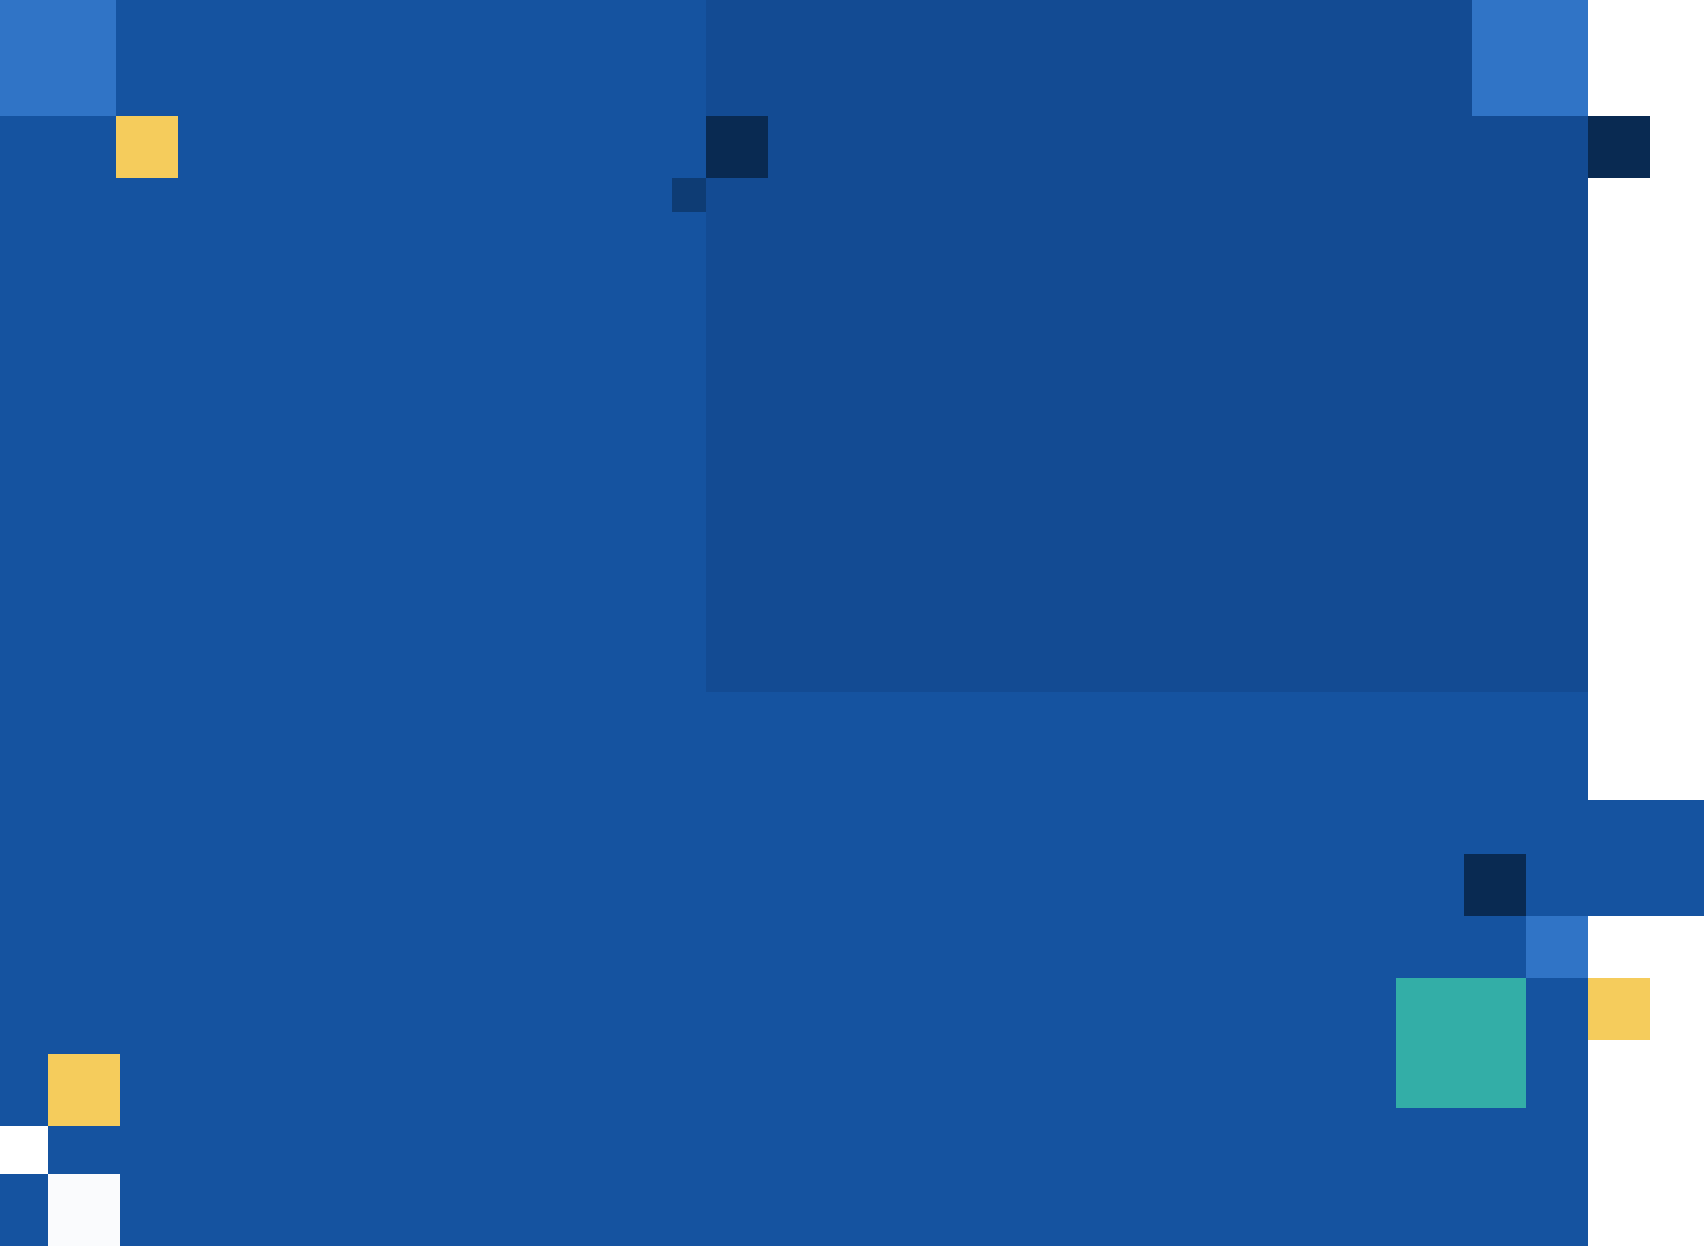
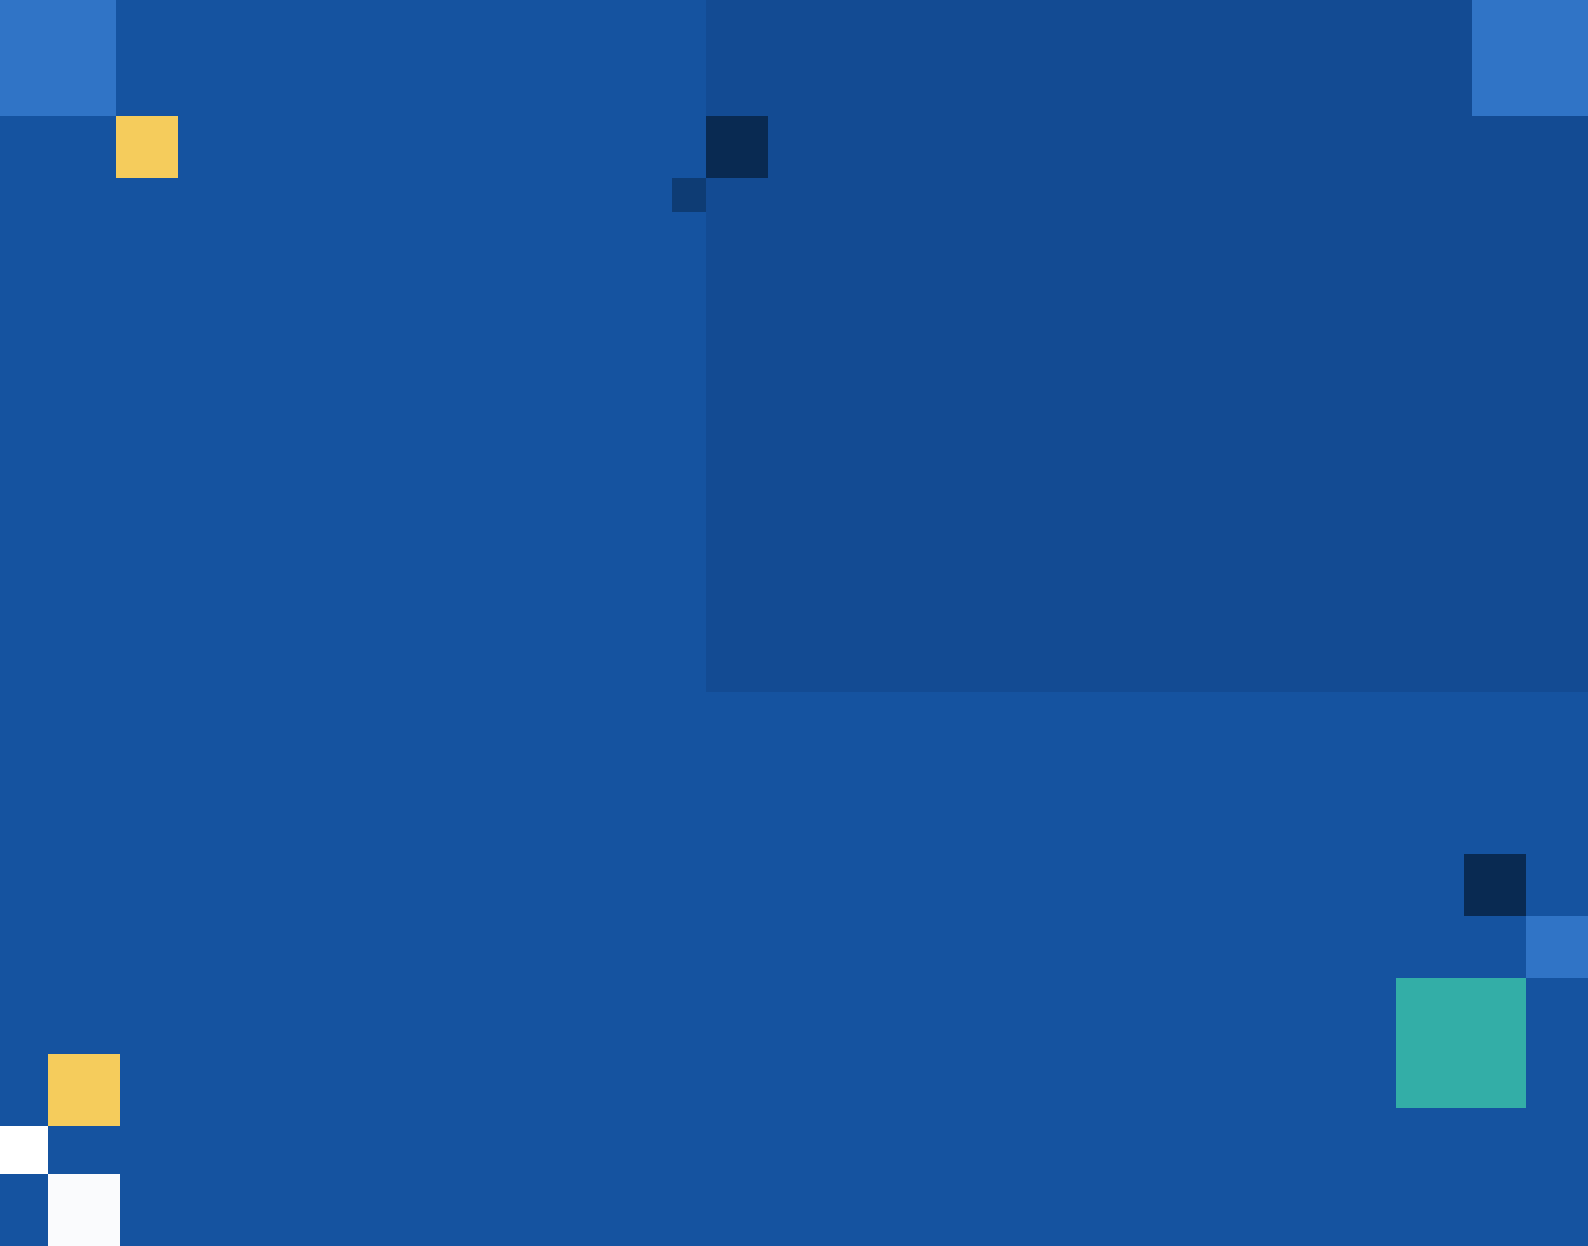
update position hero di page table dan page paragraph

diff --git a/assets/css/style.css b/assets/css/style.css
@@ -1,4 +1,24 @@
 @media only screen and (max-width: 900px) {
+  table.dataTable > thead .sorting::after,
+  table.dataTable > thead .sorting_asc::after {
+    background-image: url(../img/icons/arrow-down-bottom.svg);
+    background-size: 24px;
+    content: "";
+    background-position: bottom;
+    background-repeat: no-repeat;
+    opacity: 1;
+    margin-right: 0;
+  }
+  table.dataTable > thead .sorting::before,
+  table.dataTable > thead .sorting_asc::before {
+    background-image: url(../img/icons/arrow-down-top.svg);
+    background-size: 24px;
+    content: "";
+    background-position: top;
+    background-repeat: no-repeat;
+    opacity: 1;
+    margin-right: 0;
+  }
   .navbar .navbar-collapse {
     background-color: white;
     position: absolute;
@@ -52,12 +72,28 @@
 
   .navbar-collapse .navbar_profile {
     position: absolute;
-    top: 85%;
+    top: 80%;
     left: 20px;
   }
   .member_content .card .card-header .dropdown__right {
     display: block;
     justify-content: center;
+  }
+
+  .bottom {
+    display: flex;
+    flex-direction: row-reverse;
+    margin-top: 20px;
+    justify-content: space-between;
+    margin-left: 10px;
+    margin-right: 10px;
+  }
+
+  .img__left {
+    display: none;
+  }
+  .img__right {
+    display: none;
   }
 
   .select-custom-arrow {
@@ -68,6 +104,14 @@
     -moz-appearance: none;
     height: 48px;
     width: 100%;
+  }
+
+  .dataTables_length {
+    margin-right: 0;
+  }
+
+  div.dataTables_wrapper div.dataTables_paginate {
+    margin-left: 0;
   }
 
   .mb-xs-ex-select {
@@ -82,8 +126,8 @@
   }
 
   .select-custom-arrow {
-    background-position: calc(100% - 12px) 14px;
-    background-size: 9%;
+    background-position: calc(100% - 12px) 11px;
+    background-size: 24px;
   }
 
   .text-total-count-table {
@@ -161,6 +205,26 @@
   }
 }
 @media only screen and (min-width: 900px) {
+  table.dataTable > thead .sorting::after,
+  table.dataTable > thead .sorting_asc::after {
+    background-image: url(../img/icons/arrow-down-bottom.svg);
+    background-size: 24px;
+    content: "";
+    background-position: bottom;
+    background-repeat: no-repeat;
+    opacity: 1;
+    margin-right: 16px;
+  }
+  table.dataTable > thead .sorting::before,
+  table.dataTable > thead .sorting_asc::before {
+    background-image: url(../img/icons/arrow-down-top.svg);
+    background-size: 24px;
+    content: "";
+    background-position: top;
+    background-repeat: no-repeat;
+    opacity: 1;
+    margin-right: 16px;
+  }
   .member_content .card .card-header {
     padding: 32px;
   }
@@ -191,23 +255,44 @@
     font-size: 18px;
     margin-top: 0;
   }
+
+  .dataTables_length {
+    margin-right: 20px;
+  }
+
+  div.dataTables_wrapper div.dataTables_paginate {
+    margin-left: 20px;
+  }
+
+  .bottom {
+    margin-top: 20px;
+    display: flex;
+    justify-content: space-between;
+    flex-direction: row-reverse !important;
+    padding-right: 15px;
+    padding-left: 15px;
+  }
+
+  .img__left {
+    width: 792px;
+    height: 624px;
+    position: absolute;
+    left: -150px;
+  }
+  .img__right {
+    width: 648px;
+    height: 623px;
+    position: absolute;
+    left: 0;
+  }
 }
 
-table.dataTable > thead .sorting::after, table.dataTable > thead .sorting_asc::after{
-  background-image: url(../img/icons/arrow-down-bottom.svg);
-  background-size: 24px;
-  content: "";
-  background-position: bottom;
-  background-repeat: no-repeat;
-  opacity: 1;
-}
-table.dataTable > thead .sorting::before, table.dataTable > thead .sorting_asc::before{
-  background-image: url(../img/icons/arrow-down-top.svg);
-  background-size: 24px;
-  content: "";
-  background-position: top;
-  background-repeat: no-repeat;
-  opacity: 1;
+@media only screen and (min-width: 992px) {
+  .col-lg-7 {
+    -ms-flex: 0 0 58.333333%;
+    flex: 0 0 58.333333%;
+    max-width: 56.333333%;
+  }
 }
 
 .btn-green {
@@ -453,7 +538,7 @@ table.dataTable > thead .sorting::before, table.dataTable > thead .sorting_asc::
 
 .hero {
   height: 653px;
-  background-image: url("../img/hero_bg.png");
+  /* background-image: url("../img/hero_bg.png"); */
   background-size: 100% 100%;
   position: relative;
   overflow: hidden;
@@ -853,15 +938,6 @@ table.dataTable > thead .sorting::before, table.dataTable > thead .sorting_asc::
   box-shadow: 0 14px 40px rgba(24, 169, 143, 0.3);
 }
 
-.bottom {
-  margin-top: 20px;
-  display: flex;
-  justify-content: space-between;
-  flex-direction: row-reverse !important;
-  padding-right: 15px;
-  padding-left: 15px;
-}
-
 .bottom .pagination .paginate_button {
   margin-right: 10px;
 }
@@ -887,7 +963,7 @@ table.dataTable > thead .sorting::before, table.dataTable > thead .sorting_asc::
 .backup-public-template {
   height: 623px;
   margin-top: 107px;
-  background-image: url("../img/Hero_BG.png");
+  /* background-image: url("../img/Hero_BG.png"); */
   background-color: #1553a0;
   background-repeat: no-repeat;
 }
@@ -1144,14 +1220,15 @@ tbody {
 
 .has-search .form-control::placeholder {
   color: #a1b0c8;
+  padding-left: 10px;
 }
 
 .has-search .form-control-feedback {
   position: absolute;
   z-index: 2;
   display: block;
-  width: 2.375rem;
-  height: 2.375rem;
+  width: 50px;
+  height: 48px;
   line-height: 3rem;
   text-align: center;
   pointer-events: none;
@@ -1304,12 +1381,13 @@ table.dataTable > thead .sorting_desc_disabled:after {
   padding: 35px !important;
 }
 .select-padding-exc {
-  padding: 0px 25px !important;
-  margin-right: 16px;
+  padding: 0px 14px !important;
+  margin-right: 10px;
 }
 .set-exc-hero-img {
   padding: 100px !important;
   padding-left: 0 !important;
+  position: relative;
 }
 .form-group.has-search {
   margin-bottom: 0;

diff --git a/index.html b/index.html
@@ -113,8 +113,9 @@
 
     <div class="hero backup-public-template">
         <div class="container d-flex align-items-start align-items-md-center">
-            <div class="row d-flex align-content-sm-stretch">
+            <div class="row d-flex align-content-sm-stretch" style="position: relative;">
                 <div class="col-12 col-lg-7 ">
+                    <img src="./assets/img/Left.png" alt="" class="img__left">
                     <div class="hero_content pt-5 pb-5 pr-5  mt-sett set-exc-hero-img">
                         <h5>Subject Matter Expert Finder</h5>
                         <p>The first step towards effective technology scouting is to identify the technical challenges
@@ -126,7 +127,8 @@
                         </p>
                     </div>
                 </div>
-                <div class="col-12 col-lg-5" style="right: -30px; bottom: -40px;">
+                <div class="col-12 col-lg-5">
+                    <img src="./assets/img/Right.png" alt="" class="img__right">
                 </div>
             </div>
         </div>
@@ -279,50 +281,6 @@
 
                                     </tr>
 
-                                    <tr>
-                                        <td class="sub-number-table-exc">5</td>
-                                        <td class="w27-percent">
-
-                                            <p>Characterization of Subtle Faults</p>
-                                        </td>
-                                        <td class="w15-percent">AGTC - Advanced Geophysical Technologies in Carbonates
-                                        </td>
-                                        <td><button class="btn btn-sm btn-yellow-50 r-100 rejected-tabel-btn"><img
-                                                    src="assets/img/rejected-icon.svg" alt="">&nbsp;Rejected</button>
-                                        </td>
-                                        <td>
-                                            <p><img src="assets/img/icons/draf.svg" alt="">&nbsp; June 24, 2021</p>
-                                            <p class="mt-2"><img src="assets/img/icons/time.svg" alt="">&nbsp; 12:30 PM
-                                            </p>
-                                        </td>
-                                        <td><button type="button"
-                                                class="btn btn-outline-primary details-table-button"><img
-                                                    src="assets/img/eyes-icon.svg" alt="">&nbsp;View Details</button>
-                                        </td>
-
-                                    </tr>
-                                    <tr>
-                                        <td class="sub-number-table-exc">5</td>
-                                        <td class="w27-percent">
-
-                                            <p>Characterization of Subtle Faults</p>
-                                        </td>
-                                        <td class="w15-percent">AGTC - Advanced Geophysical Technologies in Carbonates
-                                        </td>
-                                        <td><button class="btn btn-sm btn-yellow-50 r-100 rejected-tabel-btn"><img
-                                                    src="assets/img/rejected-icon.svg" alt="">&nbsp;Rejected</button>
-                                        </td>
-                                        <td>
-                                            <p><img src="assets/img/icons/draf.svg" alt="">&nbsp; June 24, 2021</p>
-                                            <p class="mt-2"><img src="assets/img/icons/time.svg" alt="">&nbsp; 12:30 PM
-                                            </p>
-                                        </td>
-                                        <td><button type="button"
-                                                class="btn btn-outline-primary details-table-button"><img
-                                                    src="assets/img/eyes-icon.svg" alt="">&nbsp;View Details</button>
-                                        </td>
-
-                                    </tr>
                                     <tr>
                                         <td class="sub-number-table-exc">5</td>
                                         <td class="w27-percent">

diff --git a/assets/css/style_page_2.css b/assets/css/style_page_2.css
@@ -52,8 +52,15 @@
 
   .navbar-collapse .navbar_profile {
     position: absolute;
-    top: 85%;
+    top: 80%;
     left: 20px;
+  }
+
+  .img__left {
+    display: none;
+  }
+  .img__right {
+    display: none;
   }
 
   .who__we img.img-title {
@@ -164,6 +171,27 @@
 
   .who__we img.img-title {
     width: 592px;
+  }
+
+  .img__left {
+    width: 792px;
+    height: 627px;
+    position: absolute;
+    left: -150px;
+  }
+  .img__right {
+    width: 648px;
+    height: 623px;
+    position: absolute;
+    left: 0;
+  }
+}
+
+@media only screen and (min-width: 992px) {
+  .col-lg-7 {
+    -ms-flex: 0 0 58.333333%;
+    flex: 0 0 58.333333%;
+    max-width: 56.333333%;
   }
 }
 
@@ -453,7 +481,7 @@
 
 .hero {
   height: 653px;
-  background-image: url("../img/hero_bg.png");
+  /* background-image: url("../img/hero_bg.png"); */
   background-size: 100% 100%;
   position: relative;
   overflow: hidden;
@@ -886,7 +914,7 @@
 .backup-public-template {
   height: 623px;
   margin-top: 107px;
-  background-image: url("../img/Hero_BG.png");
+  /* background-image: url("../img/Hero_BG.png"); */
   background-color: #1553a0;
   background-repeat: no-repeat;
 }
@@ -1348,6 +1376,7 @@ table.dataTable > thead .sorting_desc_disabled:after {
 .set-exc-hero-img {
   padding: 100px !important;
   padding-left: 0 !important;
+  position: relative;
 }
 .form-group.has-search {
   margin-bottom: 0;

diff --git a/paragraph.html b/paragraph.html
@@ -116,13 +116,15 @@
         <div class="container d-flex align-items-start align-items-md-center">
             <div class="row d-flex align-content-sm-stretch">
                 <div class="col-12 col-lg-7 ">
+                    <img src="./assets/img/Left.png" alt="" class="img__left">
                     <div class="hero_content pt-5 pb-5 pr-5  mt-sett set-exc-hero-img">
                         <h5>We’re rising to meet the energy needs of the 4th industrial age</h5>
                         <p>Arcu magna ipsum dolor, mus. Buctor blandit malesuada bibendum eget. Nibh sed nisl in ut
                             consectetur. Amet etiam in molestie aenean quam platea.</p>
                     </div>
                 </div>
-                <div class="col-12 col-lg-5" style="right: -30px; bottom: -40px;">
+                <div class="col-12 col-lg-5">
+                    <img src="./assets/img/Right.png" alt="" class="img__right">
                 </div>
             </div>
         </div>
